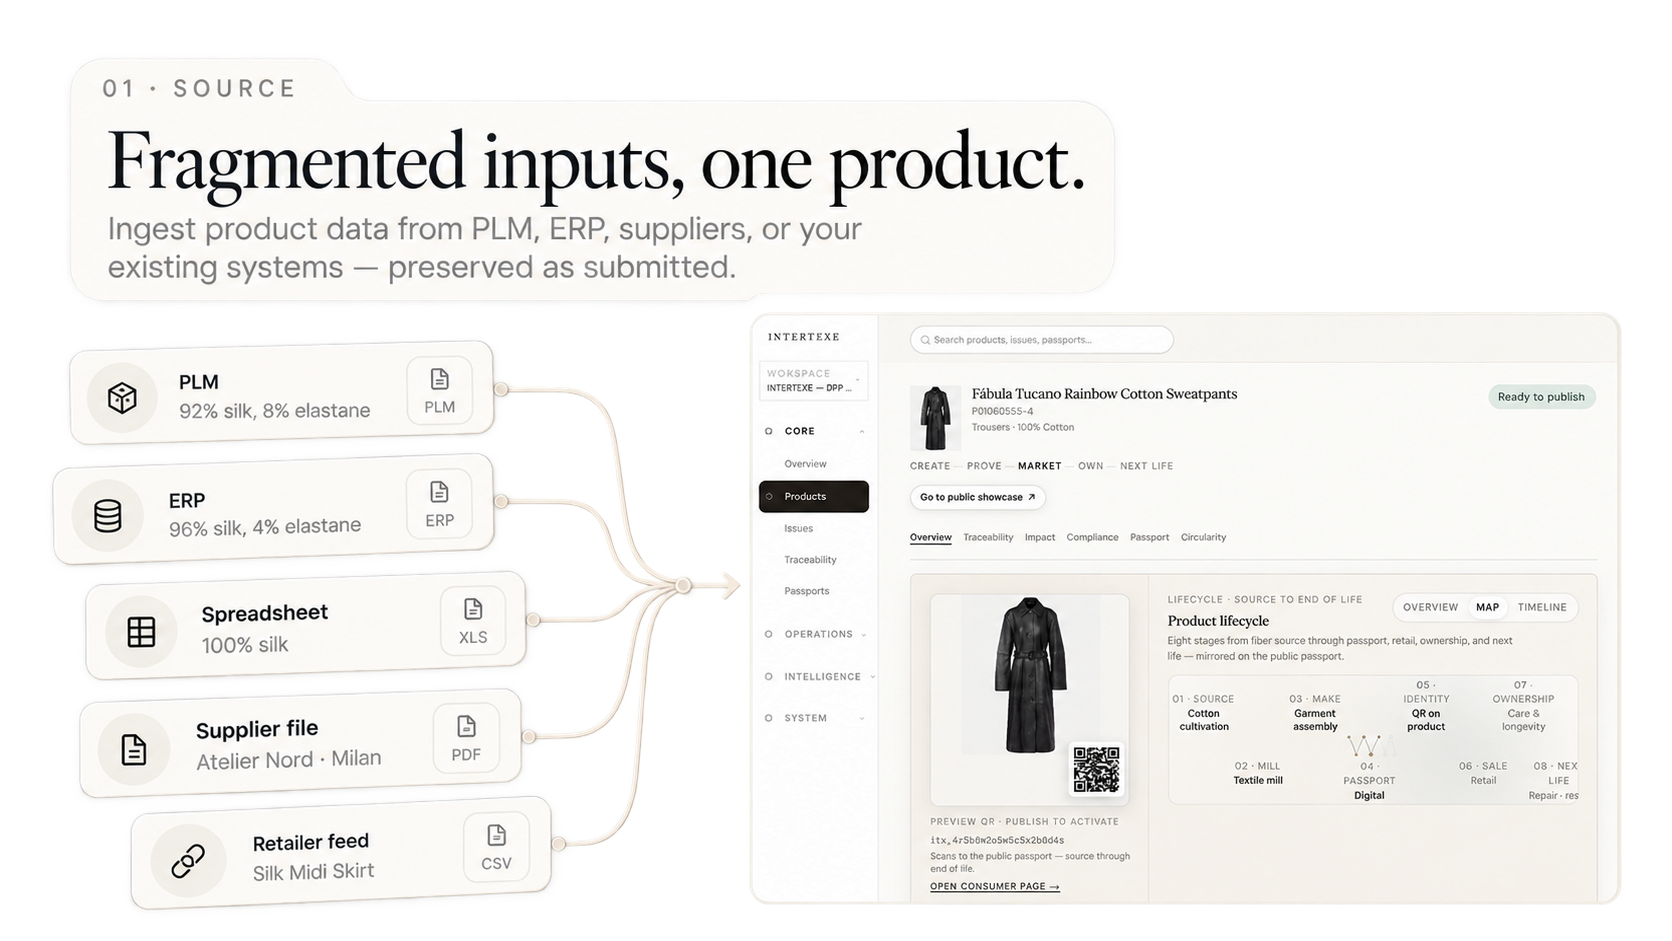
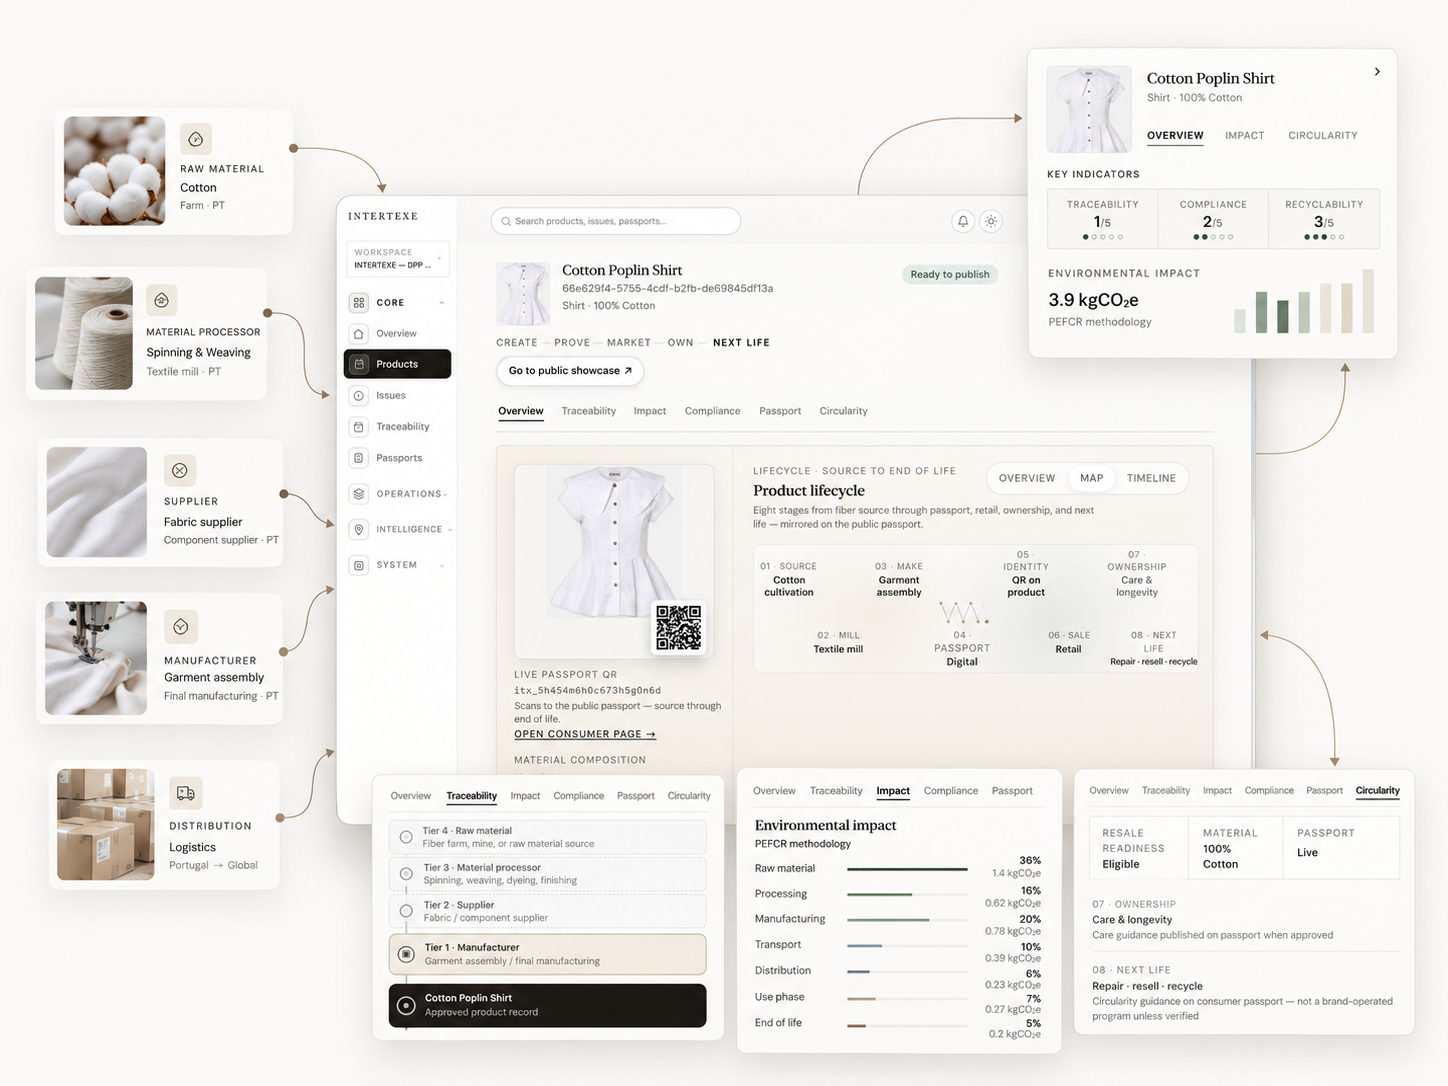
Replace Follow the Record stage art and drop motion overlays
Swap SOURCE→MEASURE PNGs for the new Cotton Poplin Shirt compositions,
cache-bust with ?v=stages1, and remove framer-motion stage overlays so
the artwork shows cleanly without stacked animation UI.

diff --git a/components/see-it-live/follow-the-record/FollowTheRecordSection.tsx b/components/see-it-live/follow-the-record/FollowTheRecordSection.tsx
@@ -2,15 +2,13 @@
 
 import Link from "next/link";
 import { useEffect, useRef, useState, type CSSProperties } from "react";
-import { AnimatePresence, motion, useReducedMotion } from "framer-motion";
+import { useReducedMotion } from "framer-motion";
 import { SERIF } from "../../../app/platform/platform-ui";
 import { FOLLOW_HEADER, FOLLOW_STAGES, type FollowStageId } from "./follow-the-record-data";
-import { StageInteractiveOverlay } from "./StageOverlays";
 import styles from "./FollowTheRecordSection.module.css";
 
 /** Short scroll triggers — states, not full-page slides. */
 const STAGE_VH = 48;
-const ease = [0.22, 1, 0.36, 1] as const;
 
 function StageRail({
   activeIndex,
@@ -44,104 +42,60 @@ function StageRail({
   );
 }
 
-function StageVisual({ stageId, active }: { stageId: FollowStageId; active: boolean }) {
-  const reducedMotion = useReducedMotion();
+function StageVisual({ stageId }: { stageId: FollowStageId; active?: boolean }) {
   const stage = FOLLOW_STAGES.find((item) => item.id === stageId) ?? FOLLOW_STAGES[0];
 
   return (
     <div className={styles.visualShell} aria-live="polite">
-      <AnimatePresence mode="wait" initial={false}>
-        <motion.div
-          key={stage.id}
-          className={styles.visualFrame}
-          initial={reducedMotion ? false : { opacity: 0, y: 16, scale: 0.985 }}
-          animate={{ opacity: 1, y: 0, scale: 1 }}
-          exit={reducedMotion ? undefined : { opacity: 0, y: -12, scale: 0.99 }}
-          transition={{ duration: 0.55, ease }}
-        >
-          <div className={styles.stageVisual}>
-            {/* eslint-disable-next-line @next/next/no-img-element -- original demo stage PNGs */}
-            <img
-              className={styles.stageBaseImage}
-              src={stage.image}
-              alt={stage.alt}
-              width={1672}
-              height={941}
-              decoding="async"
-              fetchPriority="high"
-            />
-            <div className={styles.interactiveOverlay}>
-              <StageInteractiveOverlay stageId={stage.id} active={active} />
-            </div>
-          </div>
-        </motion.div>
-      </AnimatePresence>
+      <div key={stage.id} className={styles.visualFrame}>
+        <div className={styles.stageVisual}>
+          {/* eslint-disable-next-line @next/next/no-img-element -- original demo stage PNGs */}
+          <img
+            className={styles.stageBaseImage}
+            src={stage.image}
+            alt={stage.alt}
+            width={1448}
+            height={1086}
+            decoding="async"
+            fetchPriority="high"
+          />
+        </div>
+      </div>
     </div>
   );
 }
 
 function StageCopy({ stageId }: { stageId: FollowStageId }) {
-  const reducedMotion = useReducedMotion();
   const stage = FOLLOW_STAGES.find((item) => item.id === stageId) ?? FOLLOW_STAGES[0];
 
   return (
-    <AnimatePresence mode="wait" initial={false}>
-      <motion.div
-        key={stage.id}
-        className={styles.stageCopy}
-        initial={reducedMotion ? false : { opacity: 0, y: 12 }}
-        animate={{ opacity: 1, y: 0 }}
-        exit={reducedMotion ? undefined : { opacity: 0, y: -8 }}
-        transition={{ duration: 0.45, ease }}
-        aria-live="polite"
-      >
-        <p className={styles.stageMeta}>
-          {stage.number} {stage.label}
-        </p>
-        <h3 className={styles.stageHeadline} style={SERIF}>
-          {stage.headline}
-        </h3>
-        <p className={styles.stageBody}>{stage.body}</p>
-      </motion.div>
-    </AnimatePresence>
+    <div key={stage.id} className={styles.stageCopy} aria-live="polite">
+      <p className={styles.stageMeta}>
+        {stage.number} {stage.label}
+      </p>
+      <h3 className={styles.stageHeadline} style={SERIF}>
+        {stage.headline}
+      </h3>
+      <p className={styles.stageBody}>{stage.body}</p>
+    </div>
   );
 }
 
 function MobileStageVisual({ stageId }: { stageId: FollowStageId }) {
-  const ref = useRef<HTMLDivElement | null>(null);
-  const [active, setActive] = useState(false);
   const stage = FOLLOW_STAGES.find((item) => item.id === stageId) ?? FOLLOW_STAGES[0];
 
-  useEffect(() => {
-    const node = ref.current;
-    if (!node) return;
-    const io = new IntersectionObserver(
-      ([entry]) => {
-        if (entry?.isIntersecting && entry.intersectionRatio >= 0.5) {
-          setActive(true);
-        }
-      },
-      { threshold: [0.5] },
-    );
-    io.observe(node);
-    return () => io.disconnect();
-  }, [stageId]);
-
   return (
-    <div ref={ref} className={styles.mobileVisual}>
+    <div className={styles.mobileVisual}>
       <div className={styles.stageVisual}>
         {/* eslint-disable-next-line @next/next/no-img-element */}
         <img
           className={styles.stageBaseImage}
           src={stage.image}
           alt={stage.alt}
-          width={1672}
-          height={941}
+          width={1448}
+          height={1086}
           decoding="async"
         />
-        <div className={styles.interactiveOverlay}>
-          <StageInteractiveOverlay stageId={stage.id} active={active} />
-        </div>
       </div>
     </div>
   );
@@ -283,7 +237,7 @@ export function FollowTheRecordSection() {
             </div>
 
             <div className={styles.right}>
-              <StageVisual stageId={stage.id} active />
+              <StageVisual stageId={stage.id} />
               {/* Stage headlines are baked into the PNGs — keep live text for screen readers only. */}
               <div className={styles.stageCopyDesktop}>
                 <StageCopy stageId={stage.id} />

diff --git a/components/see-it-live/follow-the-record/follow-the-record-data.ts b/components/see-it-live/follow-the-record/follow-the-record-data.ts
@@ -22,9 +22,11 @@ export type FollowStage = {
 export const FOLLOW_HEADER = {
   eyebrow: "Follow the record",
   headline: "Six ways teams work the record.",
-  lede: "Scroll through how teams work the Silk Midi Skirt, from messy inputs to the passport your customer scans.",
+  lede: "Scroll through how teams work the Cotton Poplin Shirt, from messy inputs to the passport your customer scans.",
   primaryCta: { label: "See a live product", href: "/brands/request?intent=demo&cta=follow_record" },
 } as const;
+
+const STAGE_CACHE = "v=stages1";
 
 export const FOLLOW_STAGES: FollowStage[] = [
   {
@@ -33,8 +35,8 @@ export const FOLLOW_STAGES: FollowStage[] = [
     label: "SOURCE",
     headline: "Fragmented inputs, one product.",
     body: "Ingest product data from PLM, ERP, suppliers, or your existing systems — preserved as submitted.",
-    image: "/platform/demo-source.png",
-    alt: "Fragmented inputs from PLM, ERP, spreadsheet, supplier file, and retailer feed converging into one INTERTEXE product record",
+    image: `/platform/demo-source.png?${STAGE_CACHE}`,
+    alt: "INTERTEXE product workspace for the Cotton Poplin Shirt with raw material, traceability, and environmental impact cards",
   },
   {
     id: "normalize",
@@ -42,8 +44,8 @@ export const FOLLOW_STAGES: FollowStage[] = [
     label: "NORMALIZE",
     headline: "Messy strings become structured intelligence.",
     body: "Clean, enrich, and standardize key product attributes and material composition without overwriting source strings.",
-    image: "/platform/demo-normalize.png?v=transparent",
-    alt: "INTERTEXE issues workspace resolving a composition conflict — current approved vs incoming source",
+    image: `/platform/demo-normalize.png?${STAGE_CACHE}`,
+    alt: "Fragmented product inputs — photos, spreadsheet, PDF, and handwritten notes — converging into one INTERTEXE product record",
   },
   {
     id: "validate",
@@ -51,8 +53,8 @@ export const FOLLOW_STAGES: FollowStage[] = [
     label: "VALIDATE",
     headline: "Claims become evidence-backed.",
     body: "Connect material and product claims to supplier evidence, provenance, and chain-of-custody records.",
-    image: "/platform/demo-validate.png",
-    alt: "INTERTEXE product workspace with key indicators for a ready-to-publish record",
+    image: `/platform/demo-validate.png?${STAGE_CACHE}`,
+    alt: "INTERTEXE traceability validation with tier status, validation checklist, and publish readiness alerts",
   },
   {
     id: "publish",
@@ -60,8 +62,8 @@ export const FOLLOW_STAGES: FollowStage[] = [
     label: "PUBLISH",
     headline: "One governed record, published everywhere.",
     body: "Turn the verified product record into a Digital Product Passport and distribute it through connected channels.",
-    image: "/platform/demo-publish.png",
-    alt: "Publish once — digital product passport powering web, QR, mobile app, API, and retail channels",
+    image: `/platform/demo-publish.png?${STAGE_CACHE}`,
+    alt: "Publish passport flow — INTERTEXE workspace, consumer passport on phone, and QR hangtag on the Cotton Poplin Shirt",
   },
   {
     id: "activate",
@@ -69,8 +71,8 @@ export const FOLLOW_STAGES: FollowStage[] = [
     label: "ACTIVATE",
     headline: "The product becomes a live digital touchpoint.",
     body: "Use QR, NFC, or passport delivery to support transparency, care, repair, resale, and post-purchase engagement.",
-    image: "/platform/demo-activate.png",
-    alt: "INTERTEXE product record with preview QR and full source-to-next-life lifecycle",
+    image: `/platform/demo-activate.png?${STAGE_CACHE}`,
+    alt: "Live consumer passport on mobile with care, resell, repair, and recycle guidance linked from the product QR",
   },
   {
     id: "measure",
@@ -78,7 +80,7 @@ export const FOLLOW_STAGES: FollowStage[] = [
     label: "MEASURE",
     headline: "Signals return to the record.",
     body: "Use engagement, scan activity, benchmarks, and product intelligence to understand performance and improve the record over time.",
-    image: "/platform/demo-measure.png",
-    alt: "Material Benchmark dashboard — governed record coverage, peer medians, and passport performance",
+    image: `/platform/demo-measure.png?${STAGE_CACHE}`,
+    alt: "INTERTEXE workspace overview with catalog readiness, traceability, environmental impact, and circularity signals",
   },
 ];

diff --git a/scripts/platform-demo.test.ts b/scripts/platform-demo.test.ts
@@ -315,22 +315,13 @@ describe("Permanent 10-product demonstration catalog", () => {
     assert.match(followSection, /stageCopyDesktop/);
     assert.match(followCss, /\.left \{[\s\S]*?justify-content:\s*flex-start/);
     assert.match(followCss, /\.rail \{[\s\S]*?flex:\s*0 0 auto/);
-    // Motion overlay infrastructure (SOURCE / NORMALIZE first pass)
-    assert.match(followSection, /StageInteractiveOverlay|StageOverlays/);
-    assert.match(followSection, /interactiveOverlay|stageBaseImage/);
-    assert.match(followCss, /\.interactiveOverlay/);
+    // Stage PNGs are complete compositions — no motion overlays on the artwork
+    assert.doesNotMatch(followSection, /StageInteractiveOverlay|StageOverlays/);
+    assert.match(followSection, /stageBaseImage/);
     assert.match(followCss, /\.stageBaseImage/);
     assert.match(followCss, /\.mobileTabs/);
-    const overlays = fs.readFileSync(
-      path.join(process.cwd(), "components/see-it-live/follow-the-record/StageOverlays.tsx"),
-      "utf8",
-    );
-    assert.match(overlays, /SourceOverlay|SOURCES CONNECTED|Sources connected/i);
-    assert.match(overlays, /Normalize composition for Silk Midi Skirt/);
-    assert.match(overlays, /92 SE 8 EA/);
-    assert.match(overlays, /92% Silk/);
-    assert.match(overlays, /CHAR_MS\s*=\s*45|45/);
-    assert.match(overlays, /Source preserved|SOURCE PRESERVED/i);
+    assert.match(followData, /v=stages1|stages1/);
+    assert.match(followData, /Cotton Poplin Shirt/);
     // Normalize artwork should be RGBA with transparency for Attio-style floating panels
     assert.ok(fs.existsSync(path.join(process.cwd(), "public/platform/demo-normalize.png")));
     const normalizeBuf = fs.readFileSync(path.join(process.cwd(), "public/platform/demo-normalize.png"));

diff --git a/components/see-it-live/follow-the-record/StageOverlays.tsx b/components/see-it-live/follow-the-record/StageOverlays.tsx
@@ -207,7 +207,9 @@ export function StageInteractiveOverlay({
   stageId: FollowStageId;
   active: boolean;
 }) {
-  if (stageId === "source") return <SourceOverlay active={active} />;
-  if (stageId === "normalize") return <NormalizeOverlay active={active} />;
+  // Stage PNGs ship as complete compositions — skip motion overlays so cards
+  // and typed panels do not stack on top of the artwork.
+  void stageId;
+  void active;
   return null;
 }
